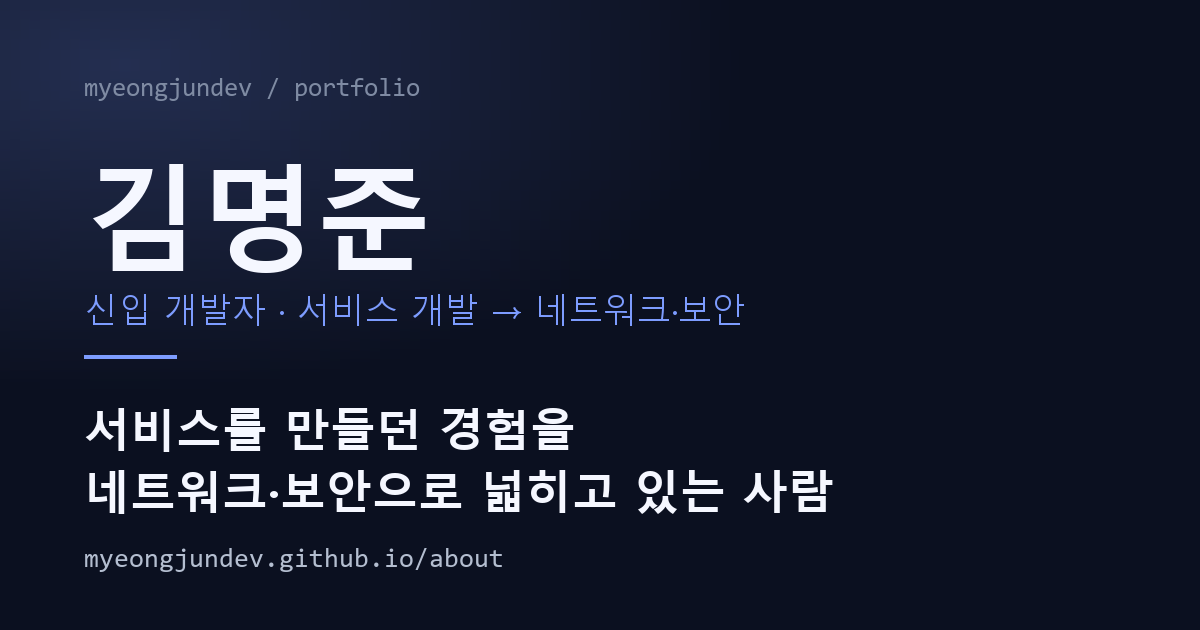
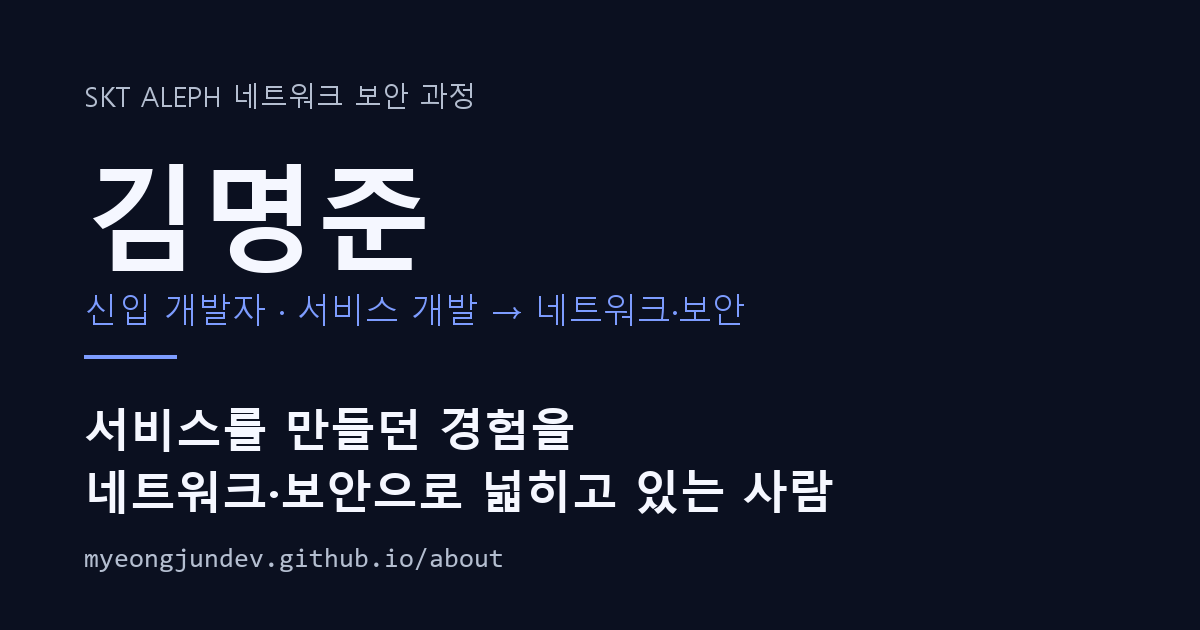
style: 공유 이미지에서 경로 장식과 번짐을 걷어 내고 이름 위에 지금 하는 일을 적는다

Changed region(s): [[0.0, 0.0, 0.4008, 0.3619]]

diff --git a/device/build_og_image.py b/device/build_og_image.py
@@ -25,7 +25,6 @@ MARGIN = 84
 BG = (11, 16, 32)
 INK = (245, 247, 255)
 MUTED = (180, 190, 208)
-FAINT = (127, 139, 163)
 ACCENT = (125, 156, 255)
 
 FONT_DIR = Path("C:/Windows/Fonts")
@@ -38,23 +37,6 @@ def font(path: Path, size: int) -> ImageFont.FreeTypeFont:
     if not path.exists():
         raise SystemExit(f"글꼴을 찾지 못했다: {path}")
     return ImageFont.truetype(str(path), size)
-
-
-def glow(image: Image.Image) -> None:
-    """사이트 바탕에 있는 원형 번짐을 작게 그려 키운다. 한 번에 그리면 느리다."""
-    small = Image.new("RGB", (120, 63), BG)
-    pixels = small.load()
-    cx, cy, radius = 12, 6, 62
-    for y in range(small.height):
-        for x in range(small.width):
-            distance = ((x - cx) ** 2 + ((y - cy) * 1.9) ** 2) ** 0.5
-            if distance >= radius:
-                continue
-            strength = (1 - distance / radius) * 0.22
-            pixels[x, y] = tuple(
-                round(BG[i] + (ACCENT[i] - BG[i]) * strength) for i in range(3)
-            )
-    image.paste(small.resize((WIDTH, HEIGHT), Image.BICUBIC), (0, 0))
 
 
 def wrap(draw: ImageDraw.ImageDraw, text: str, face: ImageFont.FreeTypeFont, limit: int) -> list[str]:
@@ -95,12 +77,14 @@ def build(data: dict, output: Path) -> None:
     role = profile["role"]
     tagline = profile["tagline"]
     site = profile["site"]["href"].replace("https://", "").rstrip("/")
+    # 이름 위 한 줄은 사이트 머리와 같다. 지금 하고 있는 일(교육의 첫 항목)을 적는다.
+    context = ((profile.get("education") or [{}])[0]).get("name") or ""
 
+    # 장식 번짐 없이 단색 바탕에 글자만 둔다(사이트 머리 정리와 같은 방향, 2026-09-25).
     image = Image.new("RGB", (WIDTH, HEIGHT), BG)
-    glow(image)
     draw = ImageDraw.Draw(image)
 
-    draw.text((MARGIN, 76), "myeongjundev / portfolio", font=font(MONO, 26), fill=FAINT)
+    draw.text((MARGIN, 76), context, font=font(BODY, 28), fill=MUTED)
     draw.text((MARGIN, 136), name, font=font(BOLD, 116), fill=INK)
     draw.text((MARGIN, 286), role, font=font(BODY, 34), fill=ACCENT)
 

diff --git a/planning/STATUS.md b/planning/STATUS.md
@@ -1,5 +1,11 @@
 # 진행 기록
 
+## 2026-09-25 — 공유 이미지 정리, GitHub 프로필 배너
+
+- 사용자 요청 "올려주고 사이트 공유 이미지(og-card)도 같이 정리해줘": `device/build_og_image.py`에서 맨 위 "myeongjundev / portfolio"를 교육 첫 항목("SKT ALEPH 네트워크 보안 과정")으로 바꾸고, 장식 번짐(glow)을 빼 단색 바탕으로 둔다. 이름·직함·한 줄 소개·주소는 그대로. `docs/assets/og-card.png` 다시 생성(1200x630).
+- GitHub 프로필 README(`myeongjundev/myeongjundev`)에 대표작 네 개의 실제 화면을 이은 배너 `work-strip.png`(투명 바탕, 대체 텍스트 포함)를 넣었다(9541bc1). bio·웹사이트 칸은 토큰에 `user` 권한이 없어 바꾸지 못했다 — 사용자가 직접 바꾸거나 `gh auth refresh -h github.com -s user`로 권한을 준 뒤 바꾼다.
+- 단위 20개·반복 생성·릴리스 검사 통과.
+
 ## 2026-09-25 — 남은 장식 정리
 
 - 사용자 요청 "남은 장식들도 정리": HOW I WORK 콘솔(DESIGN·BUILD·SHIP 단추와 `app.js` 선택 코드) → "일하는 방식" 세 줄 목록(문장·근거 그대로). 왼쪽 SELECTED BUILDS 카드 더미(`render_project_rail`, `.build-*` CSS) 삭제. 바닥글 "LET'S BUILD SOMETHING RELIABLE." 삭제. 대표작 LIVE 배지·장식 원·"CASE 01 ·" 접두어 삭제, "CASE NOTES"→"사례 노트"(펼치면 "접기"), 사례 단계 "01 / PROBLEM"→"01", 바로 가기 머리 "SECTIONS 01 — 05"→"바로 가기".
